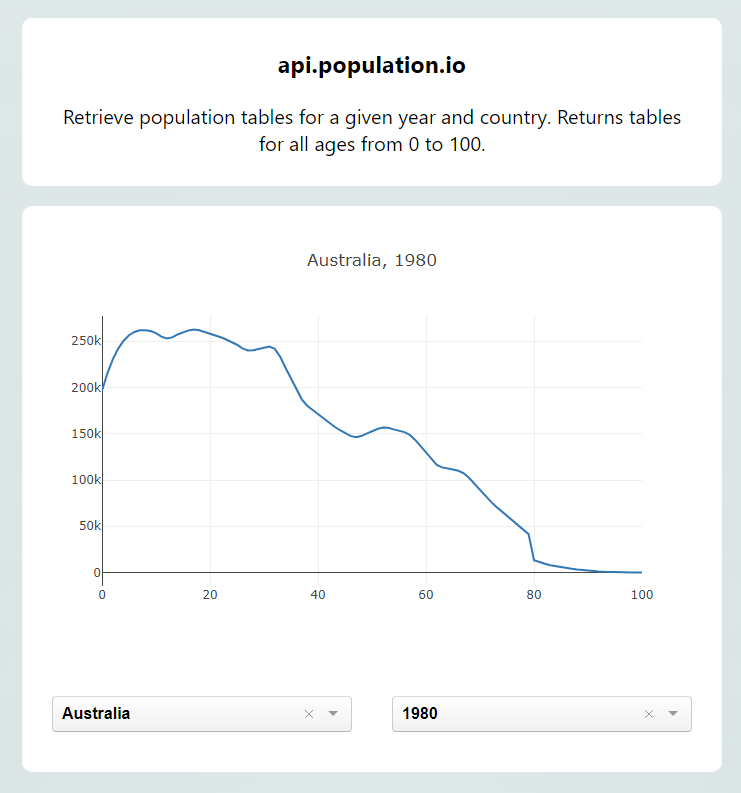
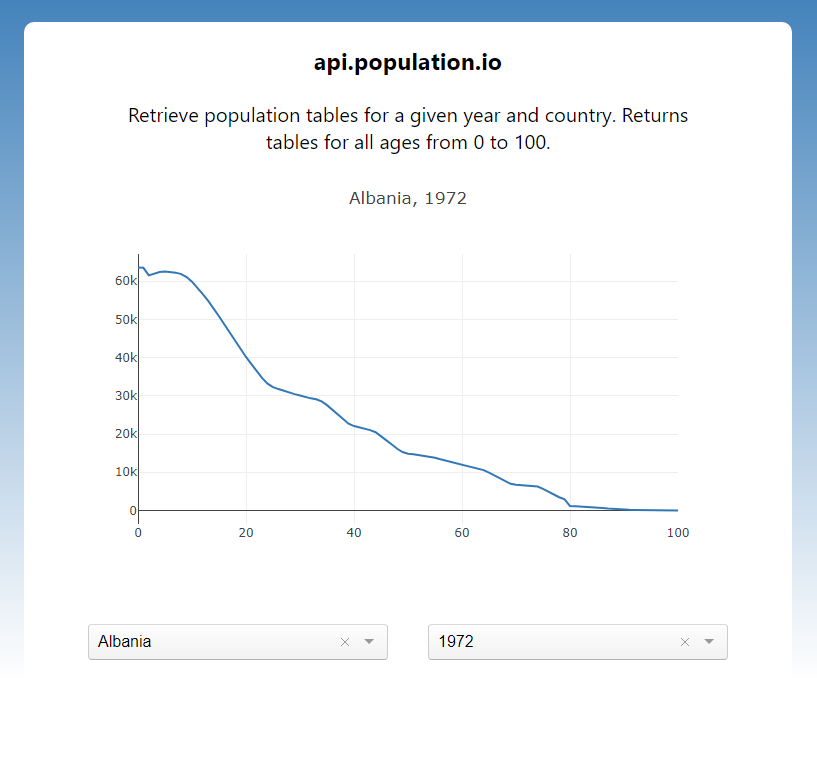
fixes

diff --git a/src/index.css b/src/index.css
@@ -2,16 +2,14 @@
   box-sizing: border-box
 }
 
-html {
-  height: 100%;
-}
-#root {
-  height: 100%;
-}
+
 body {
-  background-color: black;
   margin: 0;
   height: 100%;
+  background: #277bb6;
+  background: -webkit-linear-gradient(to bottom, #277bb6, #ffffff); 
+  background: linear-gradient(to bottom, #277bb6, #ffffff);
+  background-repeat: repeat-x;
   padding: 0;
   font-family: -apple-system, BlinkMacSystemFont, "Segoe UI", "Roboto", "Oxygen",
     "Ubuntu", "Cantarell", "Fira Sans", "Droid Sans", "Helvetica Neue",
@@ -32,47 +30,129 @@ code {
 .controls {
   display: flex;
   justify-content: center;
-  width: 700px;
   background-color: white;
-  padding: 10px;
-  border-bottom: 10px solid white;
-  border-bottom-left-radius: 10px;
-  border-bottom-right-radius: 10px;
+  flex-wrap: wrap;
 }
 
 .controls > * {
   margin: 20px;
-  font-weight: 600;
-  width: 710px;
 }
- .plot-container, .plotly{
-  border-top: 10px solid white;
-  border-radius: 10px !important;
+
+#root {
+  display: flex;
+  align-items: center;
+  justify-content: center;
 }
 
 
 .App {
-  background-color: #CDDCDC;
-  background-image: radial-gradient(at 50% 100%, rgba(255,255,255,0.50) 0%, rgba(0,0,0,0.50) 100%), linear-gradient(to bottom, rgba(255,255,255,0.25) 0%, rgba(0,0,0,0.25) 100%);
-  background-blend-mode: screen, overlay;
-  height: 100%;
   display: flex;
-  flex-direction: column;
-  align-items: center;
+  
+ 
   
 }
 
 
 .header {
+    margin-top: 4rem;
+    padding: 0px 75px;
     background: #ffffff;
-    padding: 30px;
-    margin: 20px;
-    border-radius: 10px;
-    width: 700px;
     font-size: 1.25rem;
+    text-align: center;
+    border-top-left-radius: 10px;
+    border-top-right-radius: 10px;
 }
 
-h3 {
-  margin-top: 0;
+
+
+.container {
+  width: 40vw;
+  display: flex;
+  flex-direction: column;
 }
 
+.data {
+  background-color: white;
+  display: flex;
+  align-items: center;
+  flex-direction: column;
+}
+/* Smartphones (portrait and landscape) ----------- */
+@media only screen 
+and (min-device-width : 320px) 
+and (max-device-width : 480px) {
+/* Styles */
+.container {
+  width: 95vw;
+}
+
+}
+
+/* Smartphones (landscape) ----------- */
+@media only screen 
+and (min-width : 321px) {
+  .container {
+    width: 95vw;
+  }
+}
+
+/* Smartphones (portrait) ----------- */
+@media only screen 
+and (max-width : 320px) {
+  .container {
+    width: 95vw;
+  }
+  
+}
+
+/* iPads (portrait and landscape) ----------- */
+@media only screen 
+and (min-device-width : 768px) 
+and (max-device-width : 1024px) {
+  .container {
+    width: 65vw;
+  }
+}
+
+/* iPads (landscape) ----------- */
+@media only screen 
+and (min-device-width : 768px) 
+and (max-device-width : 1024px) 
+and (orientation : landscape) {
+  .container {
+    width: 65vw;
+  }
+}
+
+/* iPads (portrait) ----------- */
+@media only screen 
+and (min-device-width : 768px) 
+and (max-device-width : 1024px) 
+and (orientation : portrait) {
+  .container {
+    width: 65vw;
+  }
+}
+
+/* Desktops and laptops ----------- */
+@media only screen 
+and (min-width : 1224px) {
+  .container {
+    width: 40vw;
+  }
+  
+}
+
+/* Large screens ----------- */
+@media only screen 
+and (min-width : 1824px) {
+/* Styles */
+}
+
+/* iPhone 4 ----------- */
+@media
+only screen and (-webkit-min-device-pixel-ratio : 1.5),
+only screen and (min-device-pixel-ratio : 1.5) {
+/* Styles */
+
+}

diff --git a/src/App.js b/src/App.js
@@ -2,7 +2,6 @@ import React, { Component } from 'react';
 import Plot from 'react-plotly.js';
 import axios from 'axios';
 import {SimpleSelect} from 'react-selectize';
-import './App.css';
 
 class App extends Component {
   state={
@@ -21,29 +20,20 @@ class App extends Component {
   }
   getCountries(){
     axios.get(`http://api.population.io/1.0/countries/`)
-      .then(res => {
-        
+      .then(res => {    
       this.setState({countries: res.data.countries})
-      })
-    
+      })  
     }
 
-    
-  
   getData(){
-    fetch(`http://api.population.io/1.0/population/${this.state.year}/${this.state.country}/?format=json`)
-      .then(response => response.json())
-      .then((data) => {
-        if(data.detail){
-          console.log(data.detail)
-          return;
-        }
-        this.setState({ data }, ()=>{
+    axios.get(`http://api.population.io/1.0/population/${this.state.year}/${this.state.country}/?format=json`)
+    .then(res => {
+      this.setState({ data: res.data }, ()=>{
         this.dataToPlot()
-      })}
-    
-    )
+      })
+    })
   }
+
   dataToPlot(){
     let x = []
     let y = []
@@ -55,15 +45,15 @@ class App extends Component {
     this.setState({title: this.state.country +", " +this.state.year})
 
   }
-  updateYear(evt){
-    this.setState({year: evt.value}, ()=> this.getData())
+  updateYear(el){
+    this.setState({year: el.value}, ()=> this.getData())
   }
 
-  updateCountry(evt){
-    if(!evt){
+  updateCountry(el){
+    if(!el){
       return;
     }
-    this.setState({country: evt.value}, ()=> this.getData());
+    this.setState({country: el.value}, ()=> this.getData());
   }
   render() {
     let countryOptionItems = this.state.countries.map((country, i) =>
@@ -73,9 +63,11 @@ class App extends Component {
       <option key={i} value={"" + (i+1950) + ""}>{""+ (i+1950) + ""}</option>
     );      
     return <div className="App">
-
+        <div className="container">
         <div className = "header"><h3>api.population.io</h3>Retrieve population tables for a given year and country. Returns tables for all ages from 0 to 100.</div>
-         <Plot data={[{ y: this.state.y, type: "line" }]} layout={{ width: "100%", height: "100%", title: this.state.title }} />
+         <div className = "data">
+         <Plot data={[{ y: this.state.y, type: "line" }]} layout={{ title: this.state.title }} />
+         </div>
         <div className="controls">
         <SimpleSelect placeholder="Change country" onValueChange={value => this.updateCountry(value)}>
          {countryOptionItems}
@@ -83,6 +75,7 @@ class App extends Component {
         <SimpleSelect placeholder="Change year" onValueChange={value => this.updateYear(value)}>
           {yearOptionItems}
         </SimpleSelect>
+        </div>
         </div>
       </div>
   

diff --git a/public/index.html b/public/index.html
@@ -1,40 +1,15 @@
 <!DOCTYPE html>
-<html lang="en">
+<html lang="et">
   <head>
     <meta charset="utf-8">
-    <link rel="shortcut icon" href="%PUBLIC_URL%/favicon.ico">
     <meta name="viewport" content="width=device-width, initial-scale=1, shrink-to-fit=no">
-    <meta name="theme-color" content="#000000">
-    <!--
-      manifest.json provides metadata used when your web app is added to the
-      homescreen on Android. See https://developers.google.com/web/fundamentals/engage-and-retain/web-app-manifest/
-    -->
-    <link rel="manifest" href="%PUBLIC_URL%/manifest.json">
-    <!--
-      Notice the use of %PUBLIC_URL% in the tags above.
-      It will be replaced with the URL of the `public` folder during the build.
-      Only files inside the `public` folder can be referenced from the HTML.
-
-      Unlike "/favicon.ico" or "favicon.ico", "%PUBLIC_URL%/favicon.ico" will
-      work correctly both with client-side routing and a non-root public URL.
-      Learn how to configure a non-root public URL by running `npm run build`.
-    -->
-    <title>React App</title>
+    <title>Plotly-demo</title>
   </head>
   <body>
     <noscript>
       You need to enable JavaScript to run this app.
     </noscript>
     <div id="root"></div>
-    <!--
-      This HTML file is a template.
-      If you open it directly in the browser, you will see an empty page.
 
-      You can add webfonts, meta tags, or analytics to this file.
-      The build step will place the bundled scripts into the <body> tag.
-
-      To begin the development, run `npm start` or `yarn start`.
-      To create a production bundle, use `npm run build` or `yarn build`.
-    -->
   </body>
 </html>
